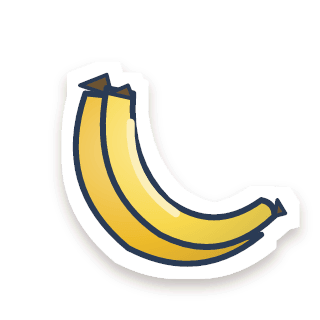
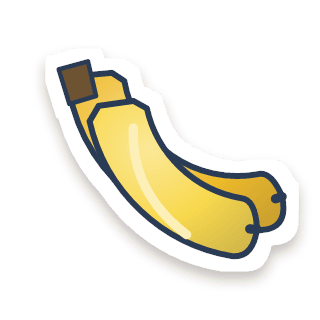
香蕉貼紙重畫成兩根胖香蕉；更新進度紀錄

Changed region(s): [[0.125, 0.1875, 0.9375, 0.9062]]

diff --git a/tools/art/stickers.js b/tools/art/stickers.js
@@ -245,6 +245,14 @@ function stars(n) {
   return out;
 }
 
+// 一根香蕉：以 (cx, cy) 為圓心的月牙，外半徑 R、厚 t，角度 a0（尖端）到 a1（蒂頭）
+function bananaPiece(cx, cy, R, t, a0, a1, c) {
+  const pt = (a, r) => (cx + Math.cos(a) * r).toFixed(1) + ' ' + (cy + Math.sin(a) * r).toFixed(1);
+  const r = R - t;
+  const d = `M${pt(a0, R - t * 0.5)} Q${pt(a0 + 0.02, R)} ${pt(a0 + 0.14, R)} A${R} ${R} 0 0 1 ${pt(a1 - 0.08, R)} L${pt(a1, R - t * 0.2)} L${pt(a1, r + t * 0.2)} L${pt(a1 - 0.08, r)} A${r} ${r} 0 0 0 ${pt(a0 + 0.14, r)} Q${pt(a0 + 0.02, r)} ${pt(a0, R - t * 0.5)}Z`;
+  return P(d, G(c), ink()) + P(`M${pt(a0, R - t * 0.5)} L${pt(a0 + 0.05, R - t * 0.5)}`, 'none', ink(7));
+}
+
 const ART = {
   panda: () => [
     C(66, 64, 24, G('#2f333b'), ink()), C(174, 64, 24, G('#2f333b'), ink()),
@@ -445,14 +453,10 @@ const ART = {
   'apple-yellow': () => apple('#f5cf3a'),
   'grape-purple': () => grape('#8e4fb5'),
   'grape-green': () => grape('#a4cf55'),
-  banana: () => [
-    P('M64 70 Q40 140 96 186 Q150 214 196 176 Q150 186 118 156 Q84 124 84 72Z', G('#eebb2c'), ink()),
-    P('M60 64 L84 72 L80 56Z', '#6d5233', ink(3)),
-    P('M80 66 Q66 140 120 176 Q166 200 206 162 Q206 152 196 150 Q160 176 126 150 Q96 120 100 70Z', G('#f8d84e'), ink()),
-    P('M96 64 L100 74 L82 70Z', '#6d5233', ink(3)),
-    P('M206 162 L214 160 L208 150Z', '#6d5233', ink(3)),
-    P('M98 92 Q96 136 132 160', 'none', `stroke="${light('#f8d84e', 0.6)}" stroke-width="6" stroke-linecap="round"`),
-  ],
+  // 香蕉：兩根胖胖的月牙形（舊版太細長）
+  banana: () => [bananaPiece(178, 46, 128, 42, 1.25, 3.05, '#eebb2c'), bananaPiece(196, 62, 132, 44, 1.6, 3.0, '#f8d84e'),
+    P('M44 52 L66 46 L72 72 L52 78Z', '#6d5233', ink(3.5)),
+    P('M100 96 Q98 144 140 176', 'none', `stroke="${light('#f8d84e', 0.6)}" stroke-width="7" stroke-linecap="round"`)],
   // ---- 衣物（市集衣物訂單）----
   hat: () => [
     E(120, 150, 100, 34, G('#e9c46a'), ink()),

diff --git a/docs/進度紀錄.md b/docs/進度紀錄.md
@@ -1,6 +1,6 @@
 # 進度紀錄（接手用）
 
-最後更新：2026-11-17　市集與草地主畫面已是手帳風，下一步是其他視窗改版（見第 4 節）
+最後更新：2026-11-17　全部畫面已是手帳風（標題、地圖、各區域、所有視窗），並做了效能烘焙；下一步見第 4 節
 
 > 想繼續時，先讀本檔，再讀 `docs/機制規劃.md`（機制的唯一依據）；美術相關再讀 `DESIGN.md`。
 
@@ -92,6 +92,7 @@
 - **各區域場景手帳風**（2026-11-17）：森林、海灘、洞穴、燈塔、研究島的島加墨線；實驗站桌子加墨線、招牌改貼紙；森林的樹加墨線；森林格子上的動物與來訪動物改用貼紙（`critterArt()`，沒有貼紙的退回程式圖示）；研究島的站改 `paperCard`。主線 38 天無錯誤
 - **程式圖示自動描墨線**（2026-11-17）：新增 `inked(g, fn)`，把同一個畫圖函式畫兩次（先放大一圈的墨色，再正常畫）；套用在 `drawIcon`（全部程式圖示）和田裡的作物 `drawPlant`。主線 37 天無錯誤
 - **效能：靜態圖烘焙成貼圖**（2026-11-17）：手帳風加了很多形狀，草地每格從約 16 ms 變成約 42 ms（桌機無頭 Chrome）。新增 `bakeTex`／`bakeGfx`：島、樹、工具列、太陽、雲烘焙一次；田的土與作物只在狀態改變時重新烘焙；`stickerPill`／`stickerDisc` 傳入 Image 時改用依參數快取的貼圖（HUD、工具格、種子卡、地圖標籤）。降到約 10 ms，比改版前還快。量測腳本 `tools/browser/perf-meadow.js`
+- **香蕉貼紙重畫**（2026-11-17）：改成兩根胖胖的月牙形（`bananaPiece()`），舊版太細長
 - **無頭 Chrome 測試工具**（2026-11-17）：`node tools/browser/shot.js <腳本> [輸出資料夾]`，不需要瀏覽器擴充、不出聲，可截圖、點擊、執行頁面程式（用法寫在檔案開頭）；貼紙產生器改成只重做有變的貼紙（`--all` 全部重做）
 
 ## 4. 下一步
@@ -99,10 +100,10 @@
 1. 單字缺口：42 個主動字還沒有出題情境（問候、方位、環境字、snow 等，清單見機制規劃 §1.4）
 2. 生態研究所原定圖鑑 40 項，目前暫定全部 23 項
 3. 星砂：裝飾全部買完（認真玩約第 23 天）之後又會累積
-4. **美術（目前正在做，下次從這裡接）**：手帳貼紙風，規格見 `DESIGN.md`、`.impeccable/briefs/market.md`
+4. **美術（主要畫面都已改完，剩細節）**：手帳貼紙風，規格見 `DESIGN.md`、`.impeccable/briefs/market.md`
    - 視窗細節：各視窗標題還是彩色字（可改成寫在紙膠帶上）；實驗站的器材圖、棲地圖示（池塘、樹、草）、草叢、設施還是舊的程式繪圖
    - iPad Safari 實機驗證（字型、觸控大小、效能）
-   - 小問題：香蕉造型偏細長；粉圓只有 400 字重，粗體是瀏覽器硬加粗
+   - 小問題：粉圓只有 400 字重，粗體是瀏覽器硬加粗
 5. 最後：預錄語音、PWA 上線、平板實測（含效能）；內容審查（英文課綱正式版、學習表現、年級對應、單字中文翻譯）
 
 ## 5. 已知問題與待確認
